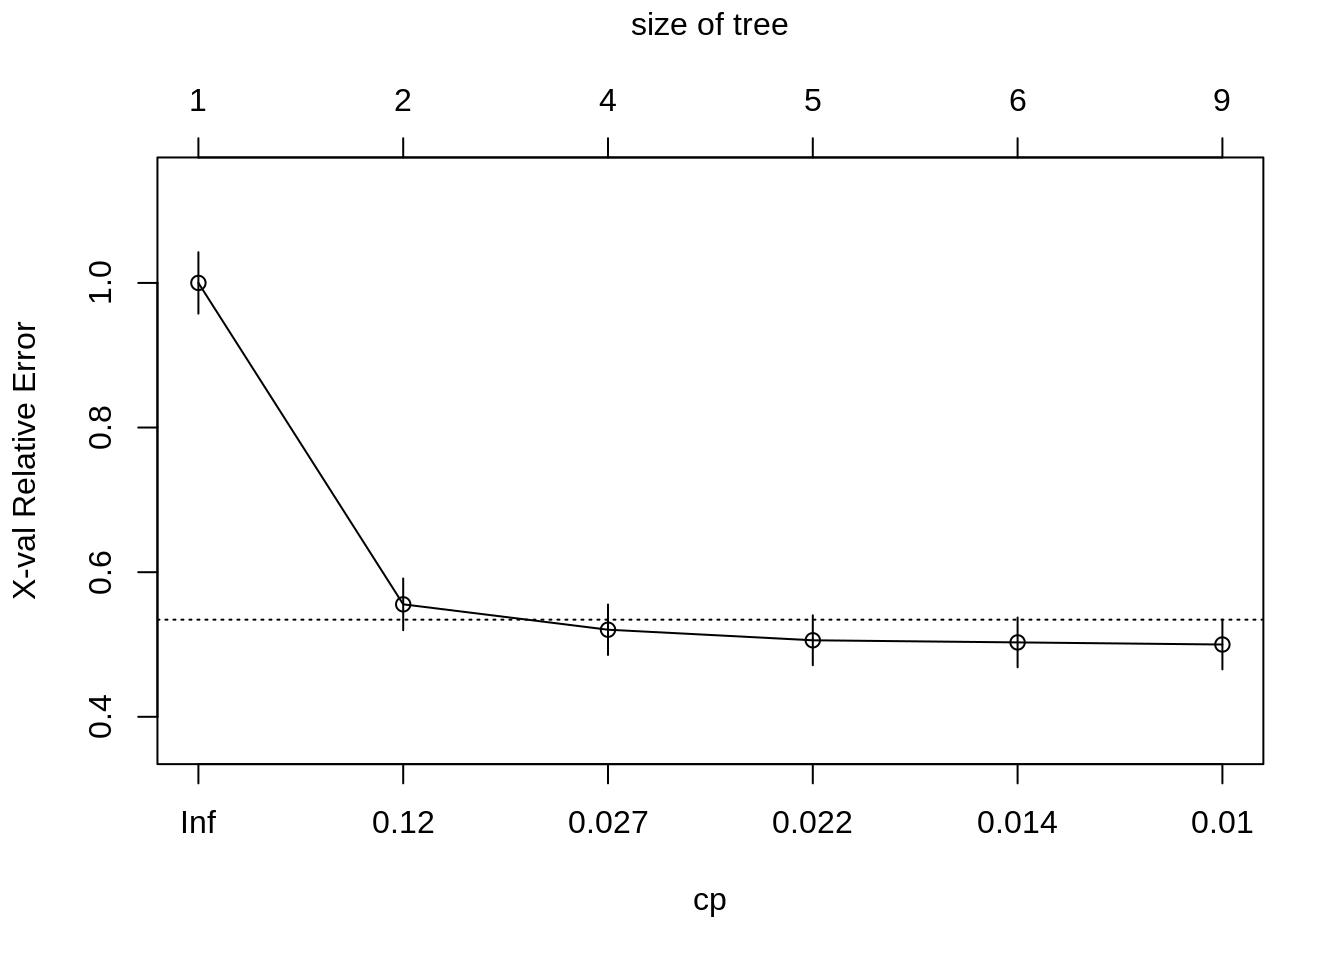
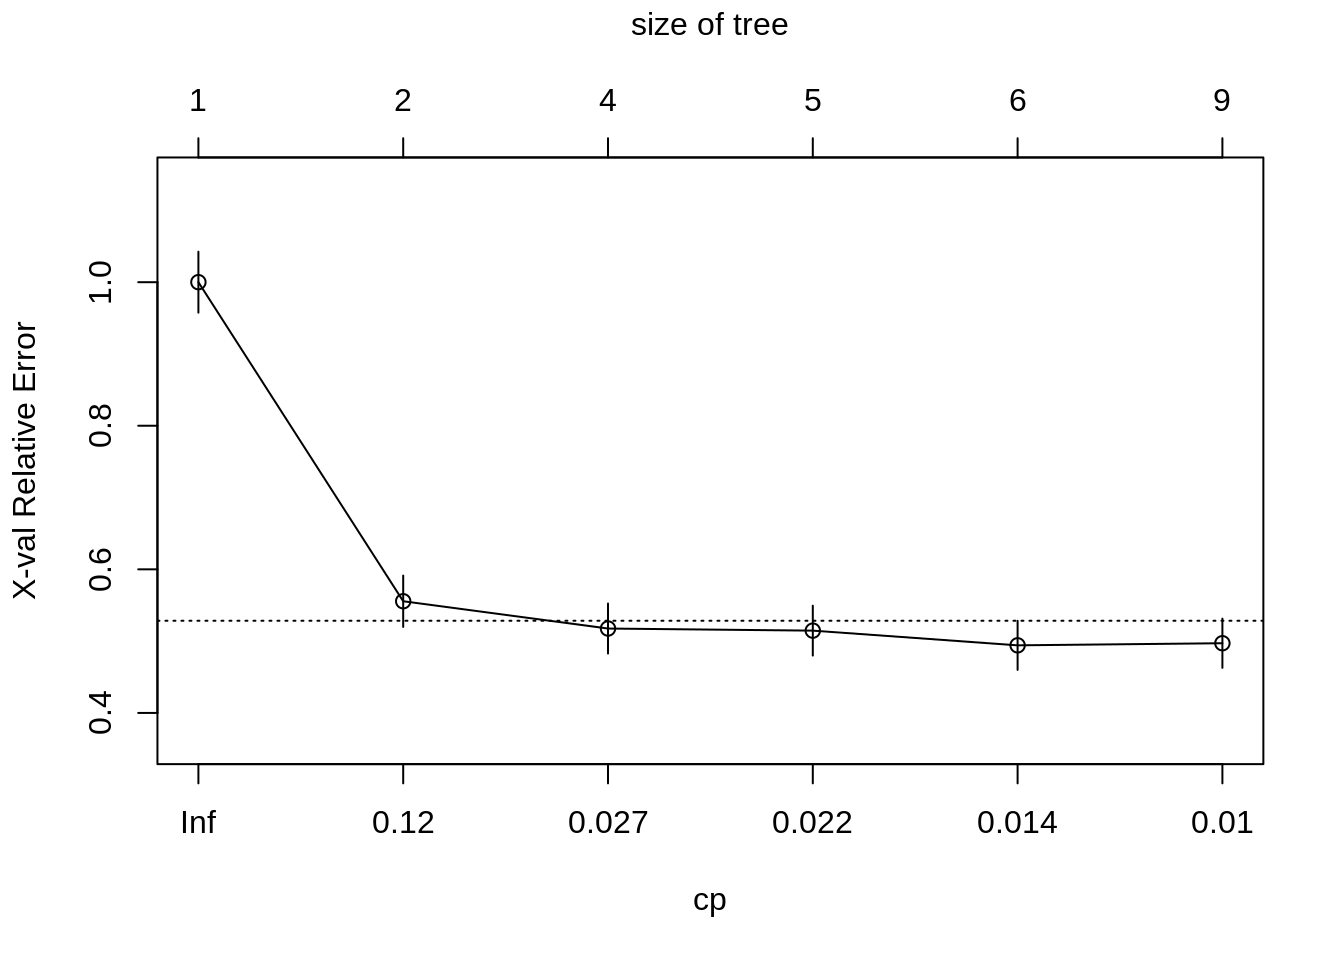
Deploy lebebr01/stat_thinking to github.com/lebebr01/stat_thinking.git:master

diff --git a/docs/classification.html b/docs/classification.html
@@ -324,10 +324,10 @@ titanic &lt;-<span class="st"> </span><span class="kw">bind_rows</span>(titanic_
 ##         CP nsplit rel error  xerror     xstd
 ## 1 0.444444      0   1.00000 1.00000 0.042446
 ## 2 0.030702      1   0.55556 0.55556 0.035750
-## 3 0.023392      3   0.49415 0.52047 0.034897
-## 4 0.020468      4   0.47076 0.50585 0.034524
-## 5 0.010234      5   0.45029 0.50292 0.034448
-## 6 0.010000      8   0.41813 0.50000 0.034372</code></pre>
+## 3 0.023392      3   0.49415 0.51754 0.034823
+## 4 0.020468      4   0.47076 0.51462 0.034749
+## 5 0.010234      5   0.45029 0.49415 0.034217
+## 6 0.010000      8   0.41813 0.49708 0.034295</code></pre>
 <div class="sourceCode"><pre class="sourceCode r"><code class="sourceCode r"><span class="kw">plotcp</span>(class_tree)</code></pre></div>
 <p><img src="05-classification_files/figure-html/unnamed-chunk-6-1.png" width="672" /></p>
 <div class="sourceCode"><pre class="sourceCode r"><code class="sourceCode r">prune_class_tree &lt;-<span class="st"> </span><span class="kw">prune</span>(class_tree, <span class="dt">cp =</span> .<span class="dv">02</span>)

diff --git a/docs/05-classification.md b/docs/05-classification.md
@@ -249,10 +249,10 @@ printcp(class_tree)
 ##         CP nsplit rel error  xerror     xstd
 ## 1 0.444444      0   1.00000 1.00000 0.042446
 ## 2 0.030702      1   0.55556 0.55556 0.035750
-## 3 0.023392      3   0.49415 0.52047 0.034897
-## 4 0.020468      4   0.47076 0.50585 0.034524
-## 5 0.010234      5   0.45029 0.50292 0.034448
-## 6 0.010000      8   0.41813 0.50000 0.034372
+## 3 0.023392      3   0.49415 0.51754 0.034823
+## 4 0.020468      4   0.47076 0.51462 0.034749
+## 5 0.010234      5   0.45029 0.49415 0.034217
+## 6 0.010000      8   0.41813 0.49708 0.034295
 ```
 
 ```r
